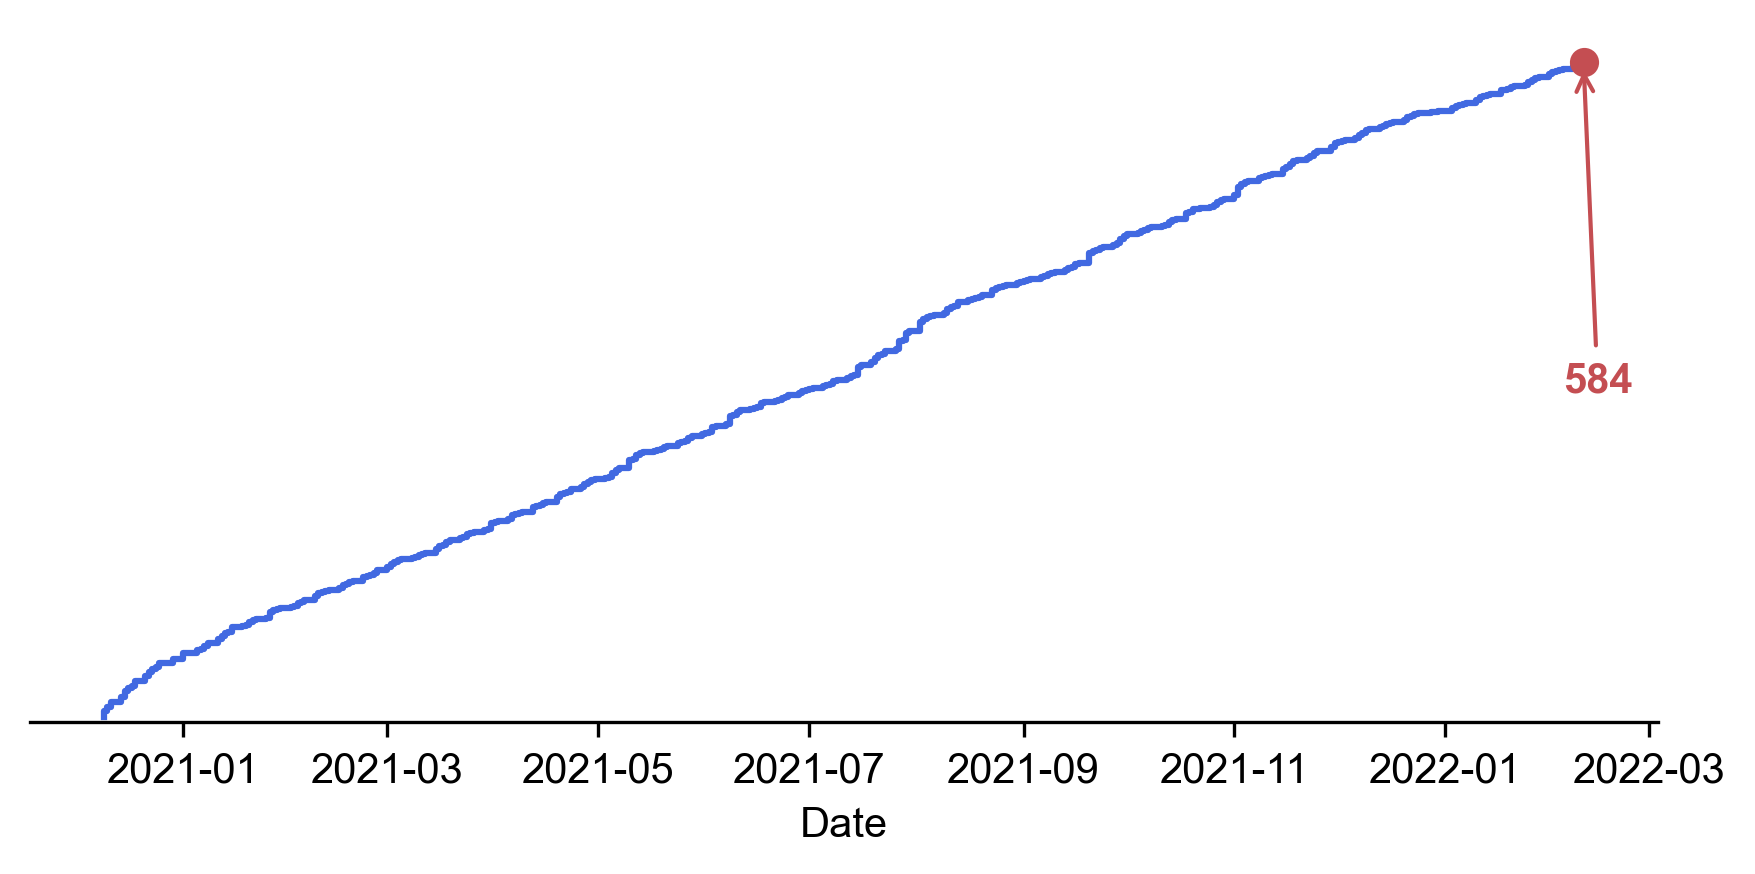
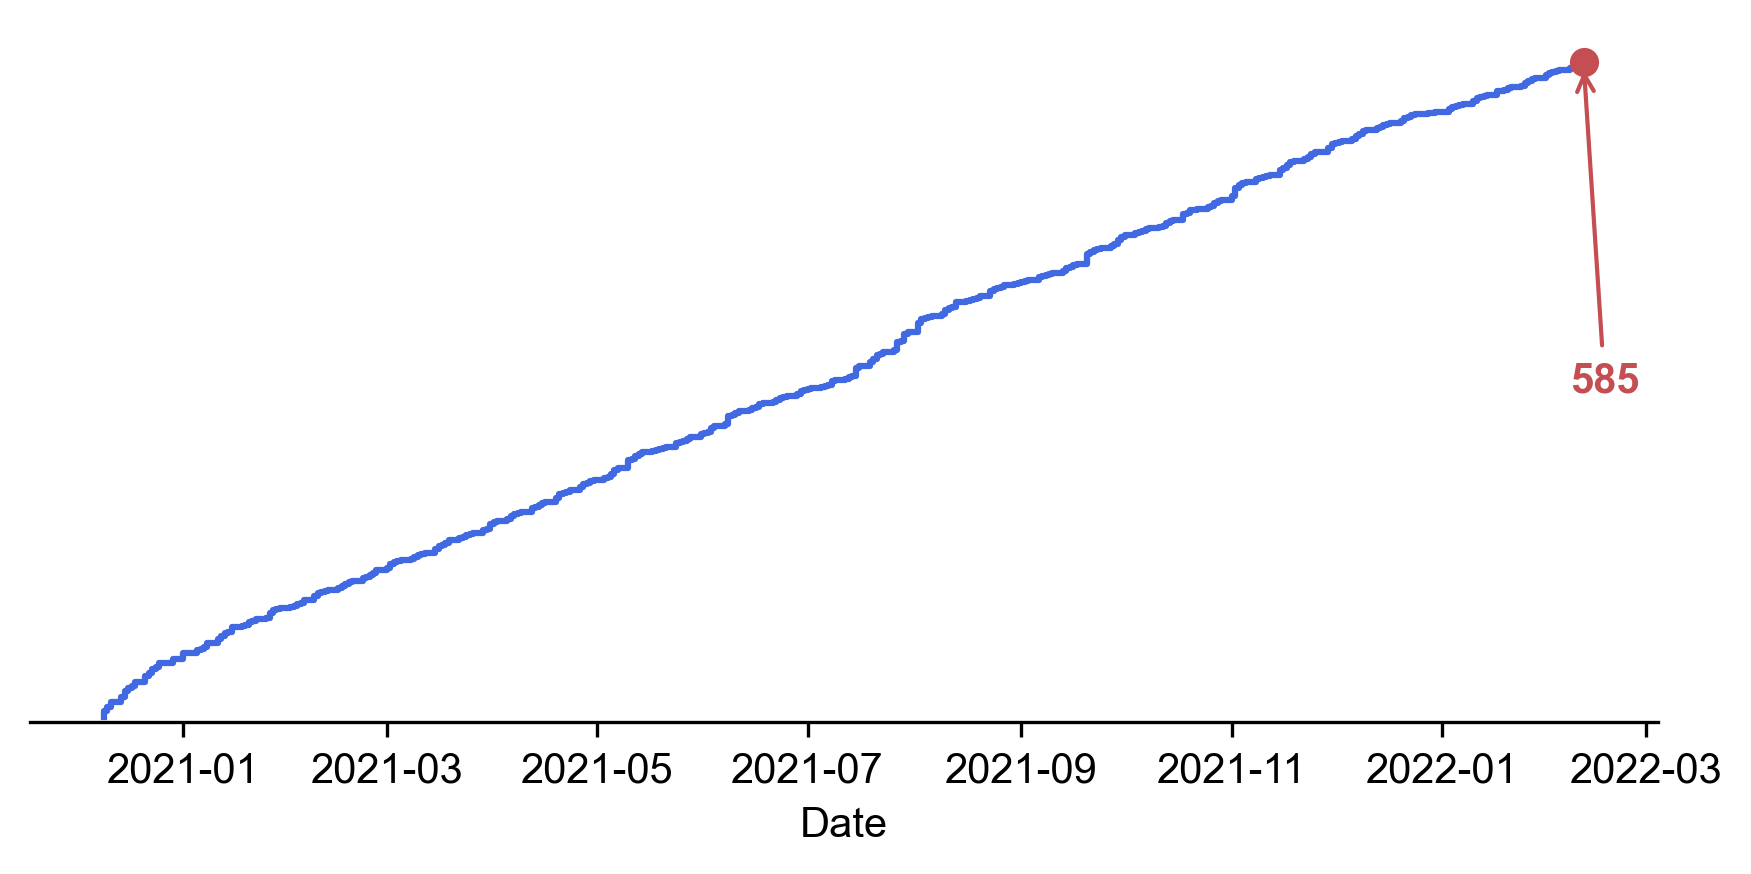
2022-02-11

diff --git a/2022/02/AstroPH-2022-02.md b/2022/02/AstroPH-2022-02.md
@@ -118,3 +118,11 @@
 
 ## 2022-02-11
 
+1. [The Thresher: Lucky Imaging without the Waste](https://arxiv.org/abs/2202.04686)
+
+   > Optical, Imaging, Stack, Software
+
+   在传统的幸运成像中，只有最清晰的图像会被保留下来作为最终图像，其它图像都被丢弃。这里提出一个多帧去卷积的图像分析方法[The Thresher](https://github.com/jah1994/TheThresher)，不需要事先估计图像的点扩散函数，可以使用所有可用的数据，返回图像信噪比高，并且不会损失角分辨率。
+
+## 2022-02-14
+
